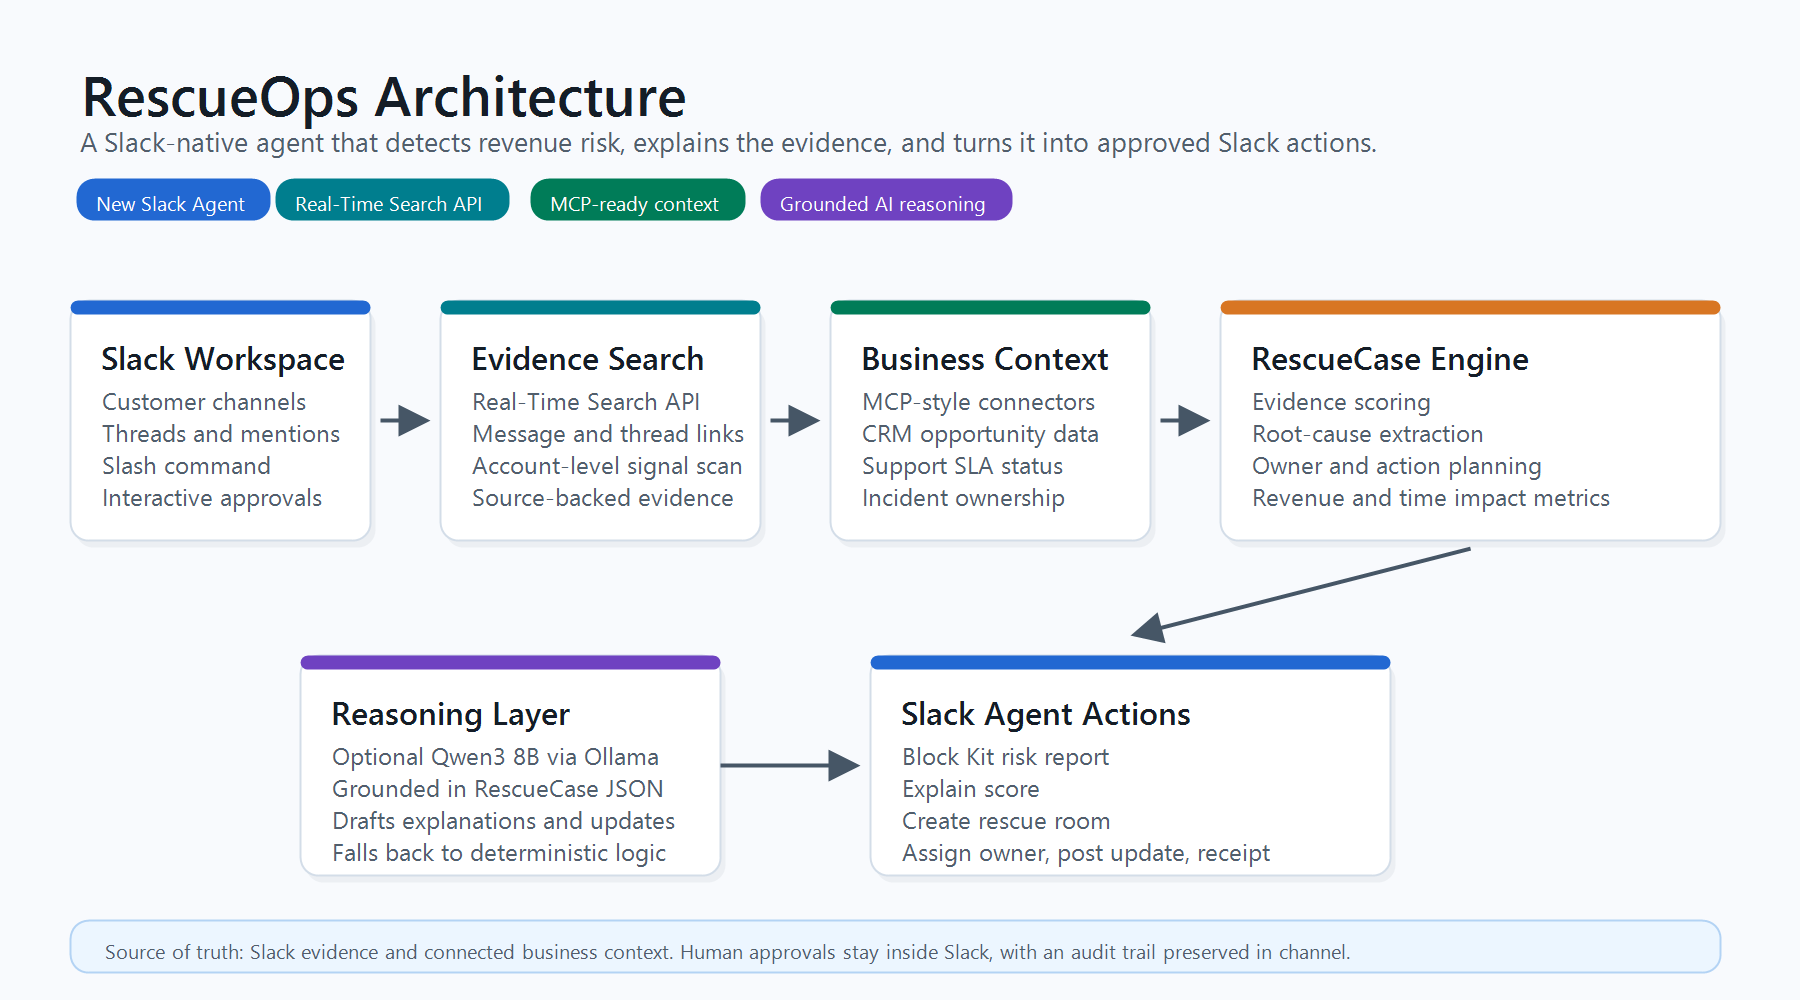
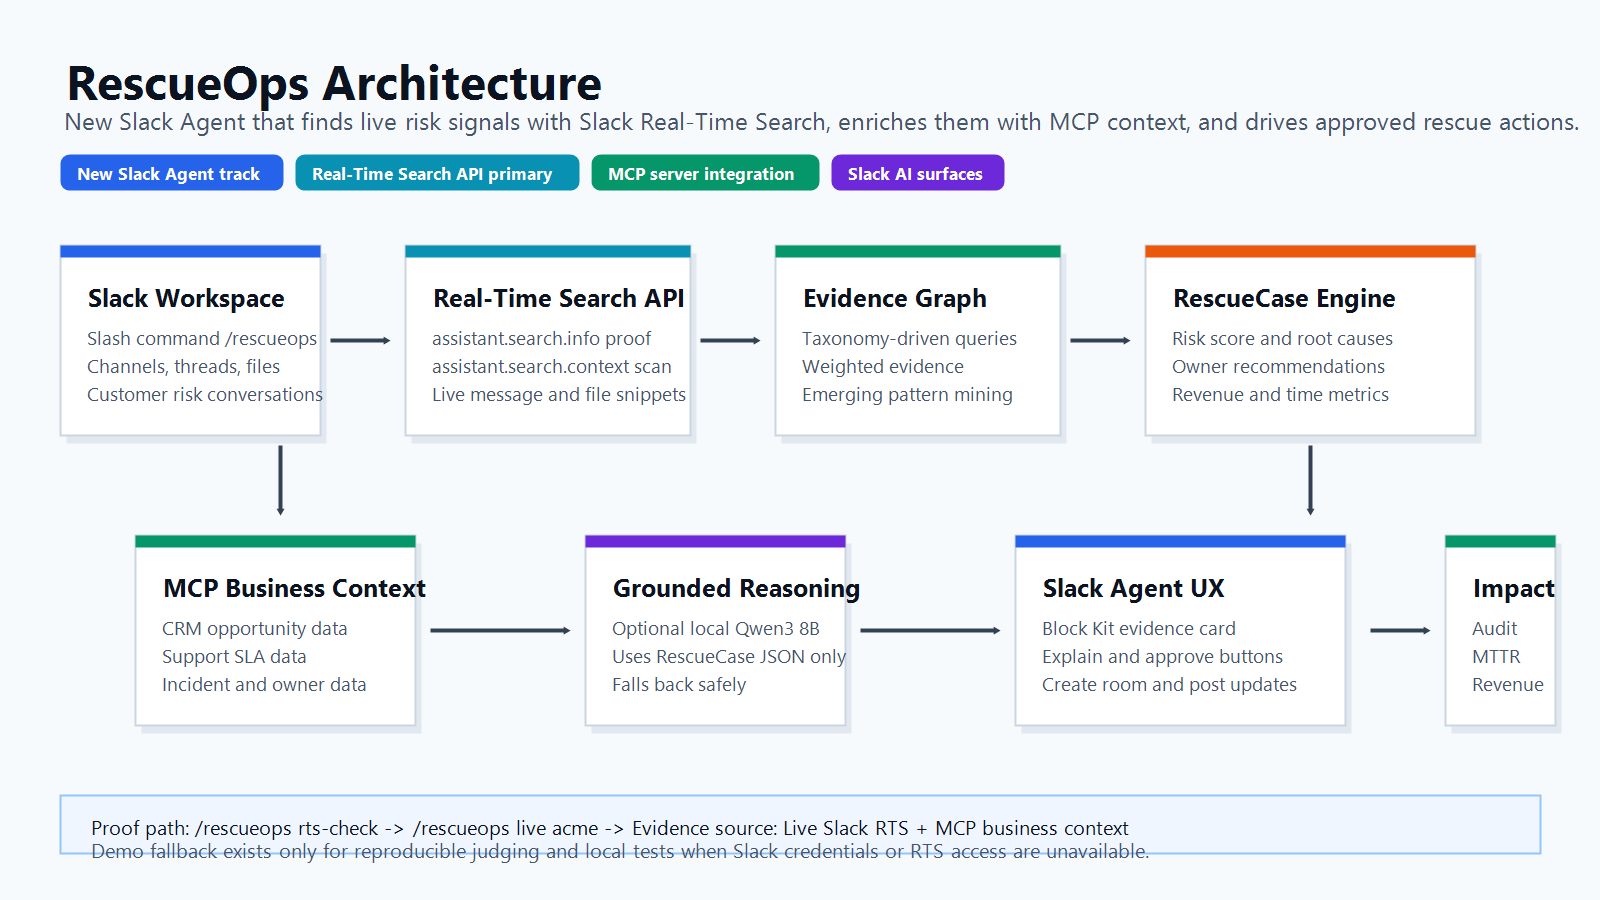
Document end-to-end Slack RTS support

diff --git a/ARCHITECTURE.md b/ARCHITECTURE.md
@@ -4,51 +4,50 @@
 
 ```mermaid
 flowchart LR
-    A["Slack messages and files"] --> B["Real-Time Search API"]
-    C["CRM, support, Jira, incident sources"] --> D["MCP-style connectors"]
-    B --> E["Work Risk Graph"]
-    D --> E
-    E --> F["Risk engine"]
-    F --> R["Grounded reasoner (optional Qwen3)"]
-    R --> G["Rescue plan"]
-    F --> G["Deterministic fallback"]
-    G --> H["Slack Block Kit response"]
-    H --> I["Human approval"]
-    I --> J["Execute rescue actions"]
-    J --> K["Impact receipt"]
+    A["Slack workspace messages and files"] --> B["Slack Real-Time Search API"]
+    B --> C["RTS evidence adapter"]
+    C --> D["MCP business context"]
+    D --> E["RescueCase engine"]
+    E --> F["Grounded reasoner"]
+    F --> G["Slack Agent UX"]
+    E --> G
+    G --> H["Human-approved Slack actions"]
+    H --> I["Impact receipt and audit trail"]
 ```
 
 ## Live Evidence Path
 
-RescueOps has two evidence lanes:
+RescueOps uses Slack Real-Time Search as the primary evidence path:
 
-1. Live Slack RTS lane: `rescueops/rts_search.py` calls `assistant.search.info` for capability checks and `assistant.search.context` for account-specific search.
-2. Deterministic fallback lane: `data/demo_workspace.json` keeps the demo reliable when Slack credentials or RTS access are unavailable.
+1. Capability check: `rescueops/rts_search.py` calls `assistant.search.info` through `/rescueops rts-check`.
+2. Live evidence scan: `/rescueops scan <account>` and `/rescueops live <account>` call `assistant.search.context` and convert live Slack snippets into weighted evidence.
+3. Business enrichment: when `RESCUEOPS_USE_MCP=1`, `rescueops/mcp_client.py` calls the local MCP server for CRM, support, incident, and ownership context.
+4. Demo fallback: `data/demo_workspace.json` is used only for tests, `/rescueops demo`, or when Slack credentials/access are unavailable.
 
-Both lanes feed the same `RescueCase` pipeline, so the Slack card, score explanation, owner plan, rescue room, and impact receipt are generated from the evidence returned at scan time.
+All evidence lanes feed the same `RescueCase` pipeline, so the Slack card, score explanation, owner plan, rescue room, customer-safe update, and impact receipt are generated from the evidence returned at scan time.
 
 ## Work Risk Graph
 
 ```mermaid
 flowchart TD
-    A["Account"] --> B["Risk"]
-    B --> C["Evidence"]
-    C --> D["Root cause"]
-    D --> E["Owner"]
-    E --> F["Action"]
-    F --> G["Outcome"]
+    A["Account"] --> B["Slack and business evidence"]
+    B --> C["Risk score"]
+    C --> D["Root causes"]
+    D --> E["Owners"]
+    E --> F["Approved actions"]
+    F --> G["Protected revenue outcome"]
 ```
 
 ## Runtime Components
 
-- `rescueops/rts_search.py` verifies and queries Slack Real-Time Search, then converts live Slack snippets into evidence.
-- `rescueops/evidence_provider.py` chooses seeded, RTS, hybrid, or MCP-enriched evidence modes.
-- `rescueops/mcp_client.py` and `rescueops/mcp_business_server.py` add CRM, support, Jira, and incident-style business context through MCP.
-- `rescueops/signal_discovery.py` mines repeated phrases from the current evidence set so workspace-specific patterns can appear in the score explanation and Slack AI brief.
+- `rescueops/rts_search.py` verifies Slack Real-Time Search with `assistant.search.info`, queries live Slack evidence with `assistant.search.context`, and converts returned snippets into evidence.
+- `rescueops/evidence_provider.py` chooses live RTS, demo, hybrid, or MCP-enriched evidence modes.
+- `rescueops/mcp_client.py` and `rescueops/mcp_business_server.py` implement the MCP server integration for CRM, support, Jira, and incident-style business context.
+- `rescueops/signal_discovery.py` mines repeated phrases from the current evidence set so workspace-specific patterns appear in score explanations and Slack AI briefs.
 - `rescueops/risk_engine.py` turns current evidence into score components, root causes, owners, rescue actions, and impact metrics.
 - `rescueops/rescue_policy.py` loads policy-driven owner mappings, due dates, and action templates from `data/rescue_policy.json`.
 - `rescueops/rescue_reasoner.py` optionally calls a local Qwen3/OpenAI-compatible reasoning model to rewrite case briefs, rescue plans, owner updates, and customer-safe updates from grounded `RescueCase` JSON. Guardrails strip reasoning traces and reject unsupported money claims before posting to Slack.
-- `rescueops/slack_ai_agent.py` handles Slack AI assistant prompts and app-mention briefs, forwarding Slack event `action_token` into the RTS path.
+- `rescueops/slack_ai_agent.py` handles Slack AI assistant prompts and app-mention briefs, forwarding Slack event `action_token` into the RTS path when Slack provides it.
 - `rescueops/socket_app.py` executes the Slack workflow through `/rescueops`, Block Kit buttons, channel creation, and message posting.
 
 ## Commands
@@ -60,4 +59,4 @@ flowchart TD
 /rescueops demo acme
 ```
 
-`/rescueops scan acme` and `/rescueops live acme` run the RTS lane by default and display the evidence source on the Slack card. `/rescueops demo acme` is the named deterministic fallback. `/rescueops hybrid acme` is an optional comparison mode.
+`/rescueops rts-check` proves Slack RTS availability. `/rescueops scan acme` and `/rescueops live acme` run the live RTS lane and display the evidence source on the Slack card. `/rescueops demo acme` is the named deterministic fallback. `/rescueops hybrid acme` is an optional comparison mode.

diff --git a/README.md b/README.md
@@ -1,22 +1,22 @@
 # RescueOps for Slack
 
-RescueOps is a Slack-native revenue rescue agent that uses Slack Real-Time Search and Slack AI surfaces to find hidden customer risk inside work conversations, explain the evidence, and launch an approved rescue workflow.
+RescueOps is a Slack-native revenue rescue agent that uses end-to-end Slack Real-Time Search and Slack AI surfaces to find hidden customer risk inside work conversations, explain the evidence, and launch an approved rescue workflow.
 
 ## Core Technology
 
-Primary capability: **Real-Time Search API**
+Primary qualifying capability: **Real-Time Search API**
 
 Agent experience: **Slack AI capabilities**
 
-Supporting capability: **MCP server integration** for business-system evidence.
+Supporting qualifying capability: **MCP server integration** for business-system evidence.
 
 RescueOps uses:
 
-- `assistant.search.info` to verify whether Slack Real-Time Search is reachable in the workspace.
-- `assistant.search.context` to pull live Slack evidence for an account when RTS is enabled.
+- `assistant.search.info` to verify that Slack Real-Time Search and semantic AI search are reachable in the workspace.
+- `assistant.search.context` to pull live Slack evidence for an account during `/rescueops scan` and `/rescueops live`.
 - Slack AI assistant hooks for dynamic suggested prompts and grounded account-risk briefs.
 - Slack Block Kit and interactive actions to approve rescue steps inside Slack.
-- MCP-style connectors for CRM, support, incident, and revenue context.
+- A stdio MCP business server for CRM, support, incident, and revenue context.
 
 ## Demo Scenario
 
@@ -26,7 +26,7 @@ Problem: SSO reliability issues are scattered across sales, support, incidents, 
 
 RescueOps:
 
-1. Searches live Slack evidence through the official RTS API.
+1. Searches live Slack evidence through the official Slack Real-Time Search API.
 2. Scores the account from current evidence.
 3. Explains root causes and weighted signals.
 4. Shows expected protected revenue.
@@ -45,13 +45,13 @@ Run the app, then use these commands in Slack:
 /rescueops live acme
 ```
 
-Expected behavior:
+Expected behavior with the configured sandbox:
 
-- `/rescueops rts-check` calls Slack `assistant.search.info` and reports whether RTS/AI search is reachable.
+- `/rescueops rts-check` calls Slack `assistant.search.info` and reports `API status: ready`, `Slack status code: ai_search_enabled`, and `Semantic AI search enabled: yes`.
 - `/rescueops scan acme` runs the live RTS workflow by default.
 - `/rescueops live acme` is an explicit alias for the same live RTS workflow.
-- If Slack returns live evidence, the card shows `Evidence source: Live Slack RTS`.
-- If Slack blocks the call in a sandbox, the card can use demo workspace evidence and tells you to run `rts-check`.
+- If Slack returns live evidence with MCP enabled, the card shows `Evidence source: Live Slack RTS + MCP business context`.
+- If Slack credentials or RTS access are unavailable in a different workspace, `/rescueops demo` remains available for deterministic judging.
 - `/rescueops demo acme` is the only deterministic fallback demo command.
 - `/rescueops hybrid acme` is an optional comparison mode that merges RTS with baseline evidence.
 
@@ -63,12 +63,12 @@ Slack notes from the official API behavior:
 
 ## Dynamic Evidence, Not a Canned Chatbot
 
-The demo includes stable fixture data only as a named fallback, but the submission path is live RTS:
+The submitted agent path is live RTS. Stable fixture data exists only for reproducible local tests and the explicit `/rescueops demo` command:
 
-- `/rescueops scan acme`, `/rescueops scan Globex Corp`, and app mentions use `RESCUEOPS_EVIDENCE_MODE=rts` by default.
+- `/rescueops scan acme`, `/rescueops live acme`, `/rescueops scan Globex Corp`, and app mentions use `RESCUEOPS_EVIDENCE_MODE=rts` by default.
 - `rescueops/data_loader.py` resolves known fixture accounts and creates ad hoc account records for unknown live account names.
 - `rescueops/rts_search.py` builds RTS queries from `data/risk_taxonomy.json`, calls Slack RTS, and converts returned Slack snippets into weighted evidence.
-- `RESCUEOPS_EVIDENCE_MODE=rts` forces the live API path and only falls back when Slack does not return evidence.
+- `RESCUEOPS_EVIDENCE_MODE=rts` uses Slack Real-Time Search as the primary path and only falls back when Slack does not return evidence.
 - `RESCUEOPS_EVIDENCE_MODE=hybrid` is optional and merges live RTS with baseline evidence for comparison.
 - `RESCUEOPS_USE_MCP=1` enriches Slack evidence with MCP business-system signals.
 - Revenue at risk can be read from configured account data or inferred from money amounts found in live evidence.
@@ -153,6 +153,14 @@ $env:SLACK_USER_TOKEN="xoxp-..."
 /rescueops scan acme
 ```
 
+For the clearest recorded proof, run:
+
+```text
+/rescueops rts-check
+/rescueops live acme
+```
+
+The Slack card should show `Evidence source: Live Slack RTS + MCP business context` when `RESCUEOPS_USE_MCP=1`.
 Do not commit Slack tokens.
 
 ## Tests

diff --git a/DECISIONS.md b/DECISIONS.md
@@ -2,9 +2,9 @@
 
 ## Category
 
-Primary category: Real-Time Search (RTS) API.
+Primary category: New Slack Agent using the Real-Time Search (RTS) API.
 
-Reason: the project is about finding live risk signals across Slack before they become formal CRM or support updates.
+Reason: the project is about finding live risk signals across Slack before they become formal CRM or support updates. The app verifies RTS with `assistant.search.info` and pulls live evidence with `assistant.search.context`.
 
 ## Product name
 
@@ -20,7 +20,7 @@ This is narrower and more concrete than a general agent. The money, urgency, wor
 
 Mean Time To Rescue.
 
-The demo shows the time from first hidden warning signal to an approved rescue plan.
+The demo shows the time from first hidden warning signal to an approved rescue plan, using live Slack RTS evidence plus MCP business context when enabled.
 
 ## Why not a generic chatbot
 
@@ -39,4 +39,4 @@ The score should stay explainable and testable, but rescue plans need language j
 This gives the demo a stronger AI layer without making the workflow depend on a paid model key or trusting an LLM to invent facts.
 ## Why Qwen stays in scope
 
-Qwen is not the qualifying hackathon technology by itself. RescueOps qualifies through Slack Real-Time Search and Slack AI surfaces. The open-source model is only an optional grounded writing layer that turns the current `RescueCase` into clearer rescue communication after Slack evidence, scoring, owners, and actions are already computed.
+Qwen is not the qualifying hackathon technology by itself. RescueOps qualifies through Slack Real-Time Search as the primary capability, with Slack AI surfaces and MCP server integration as supporting capabilities. The open-source model is only an optional grounded writing layer that turns the current `RescueCase` into clearer rescue communication after Slack evidence, scoring, owners, and actions are already computed.